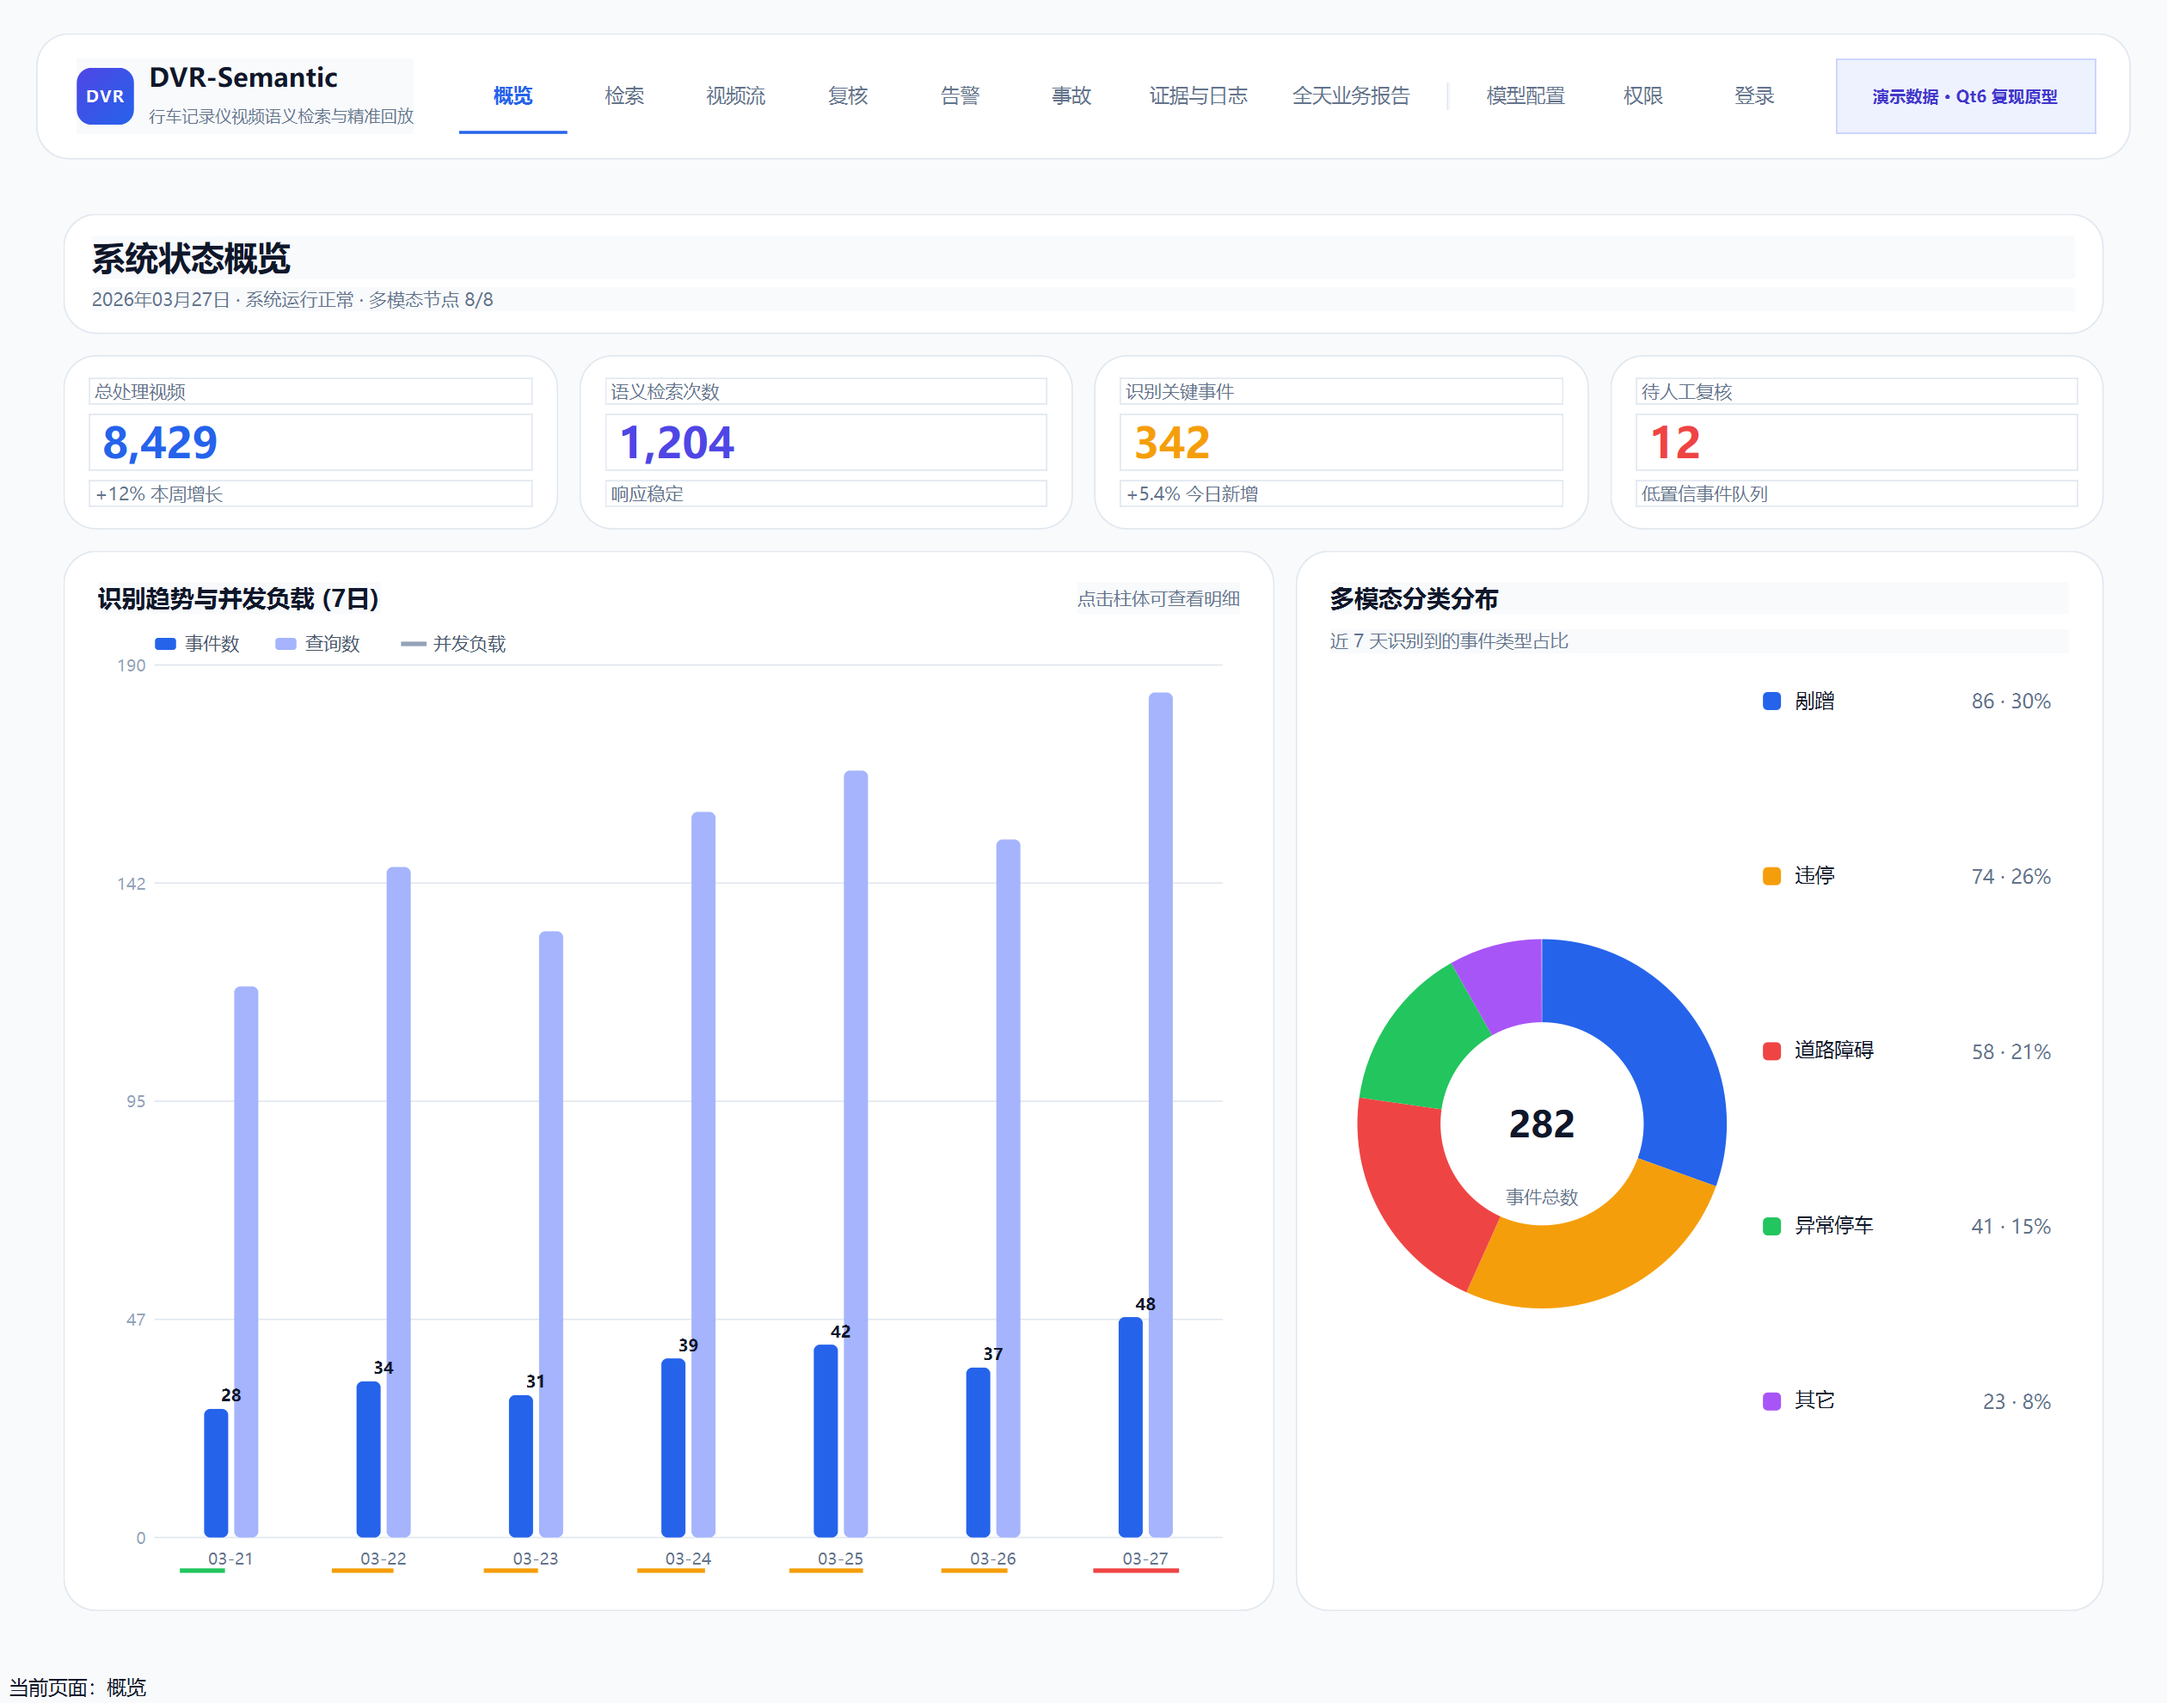
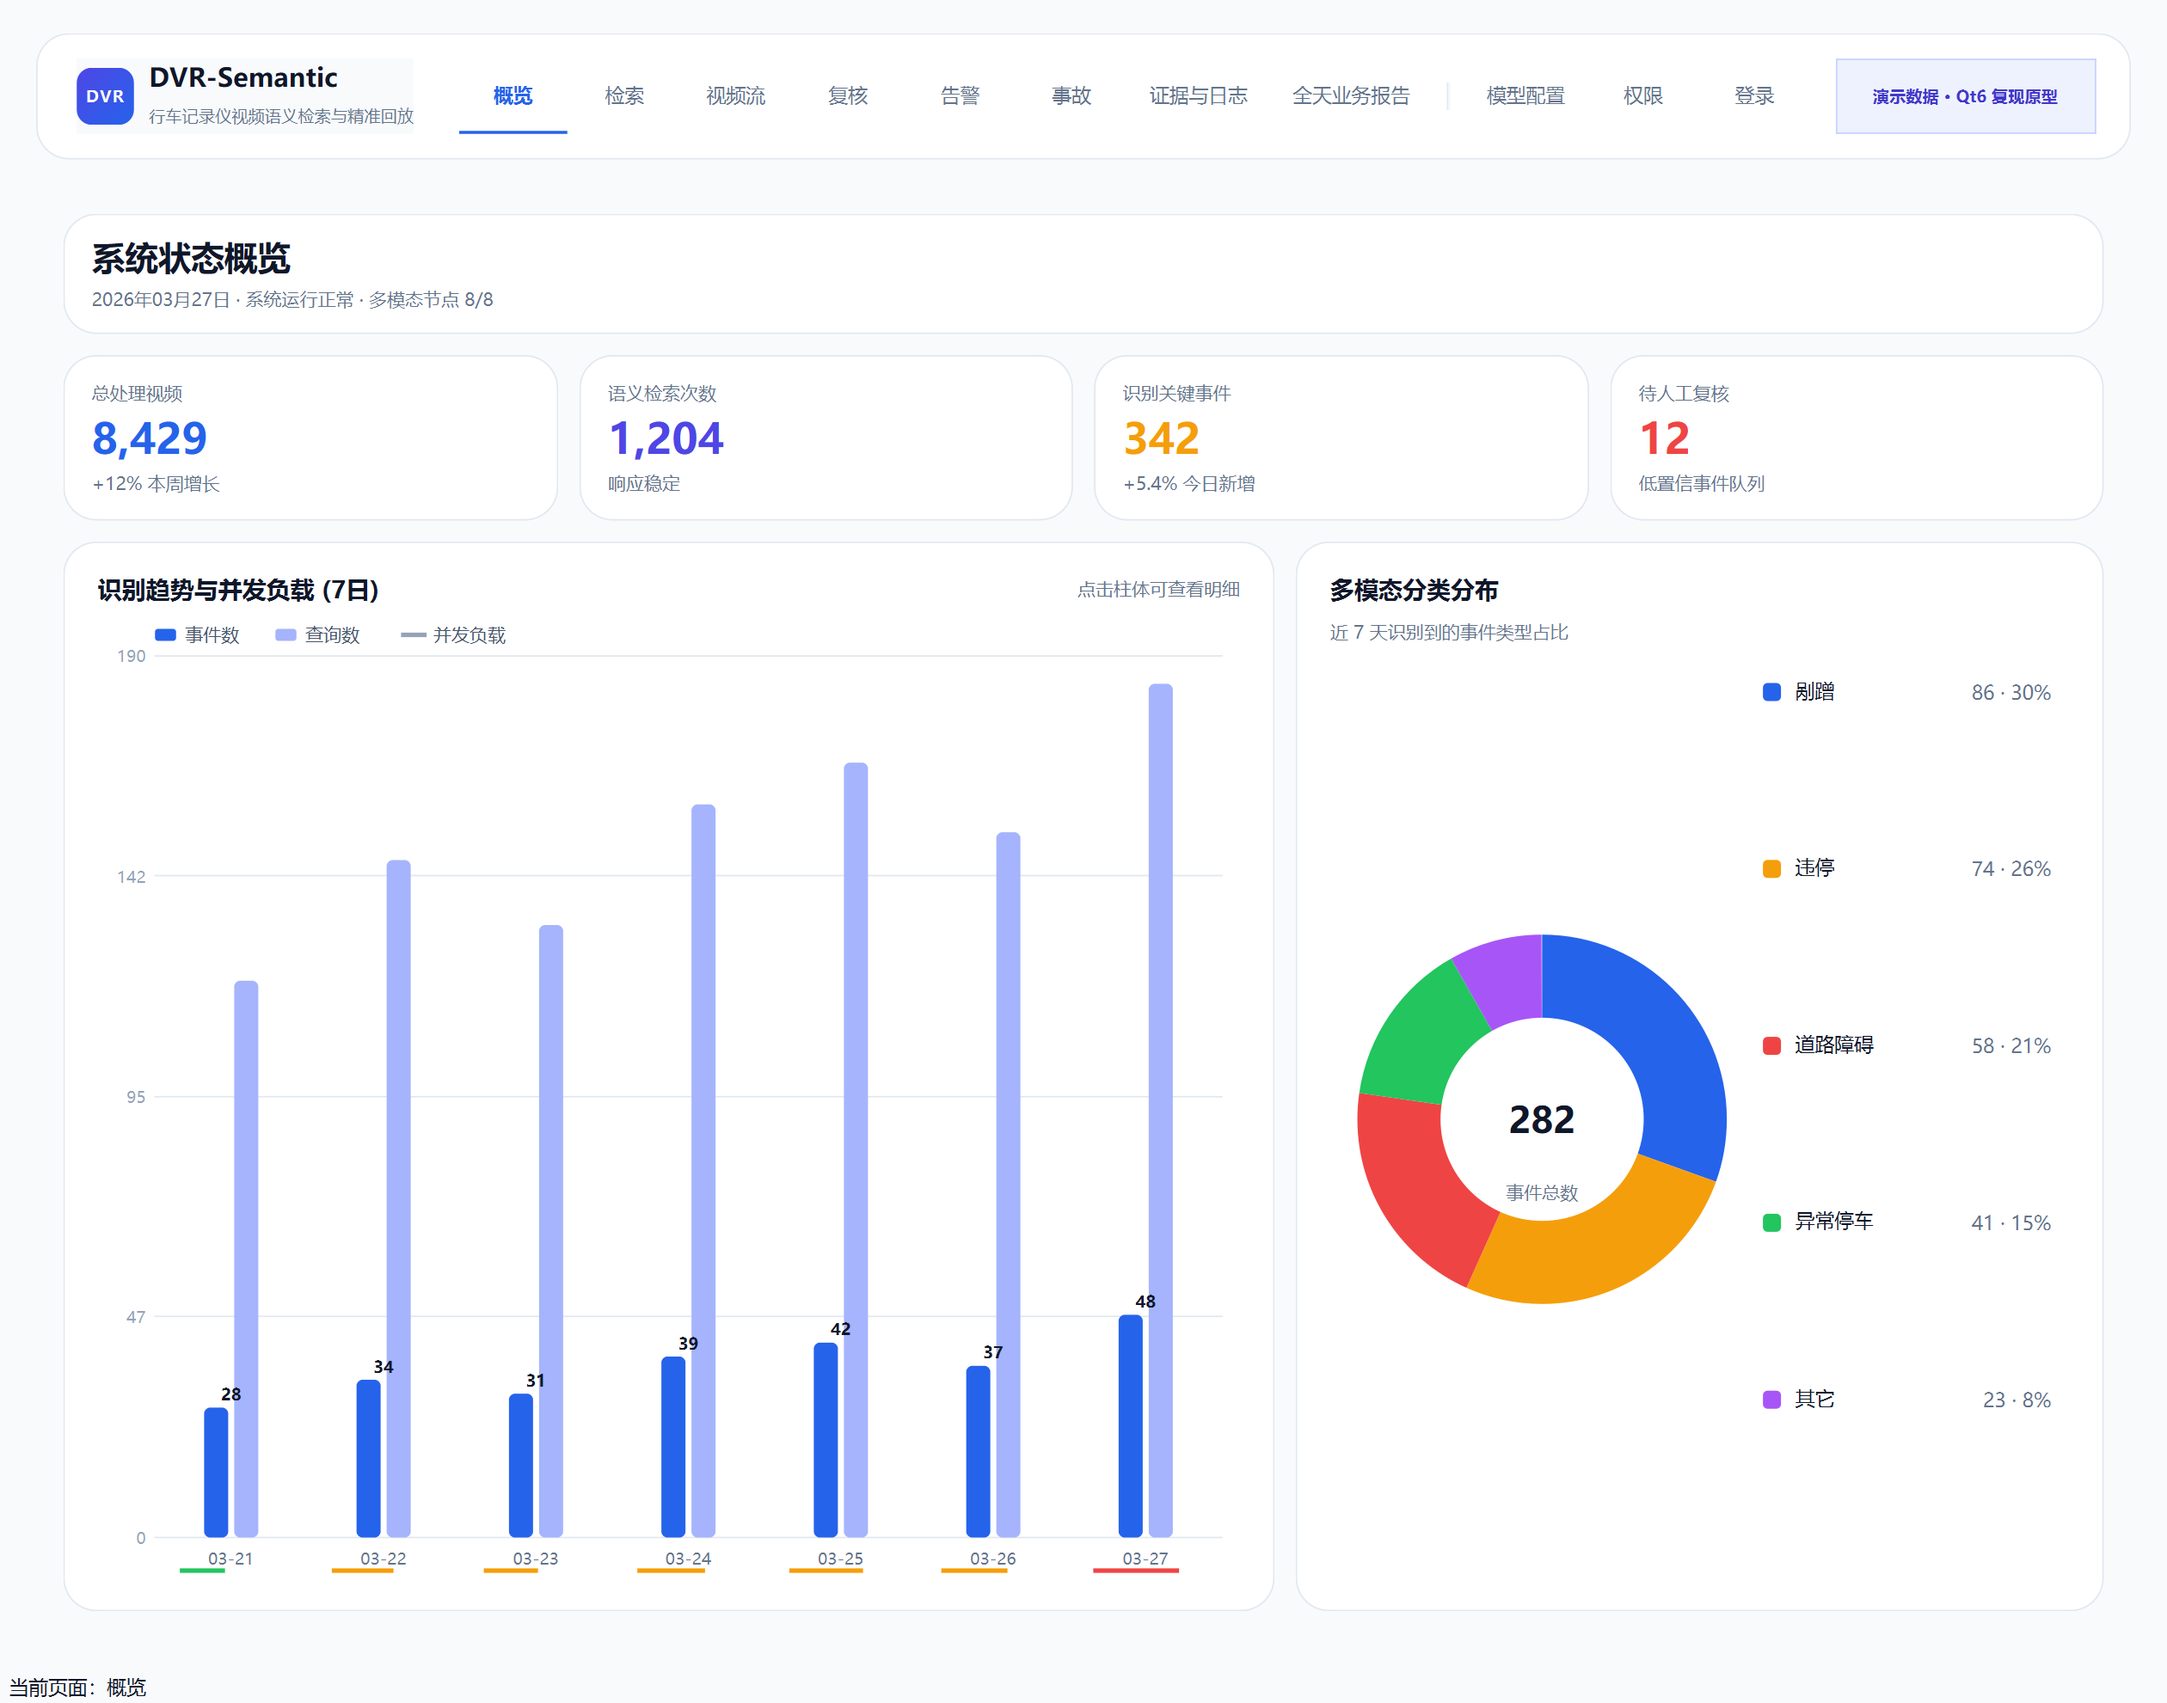
Fix label framing bug, add mock-vs-real status doc, refresh PPT captions
- pages.metric_card: scope panel border to QFrame[role='panel'] only;
  Qt's QLabel inherits from QFrame so the unscoped "QFrame { border... }"
  was painting borders around every Label inside the metric cards. Add
  defensive transparent/border:none on Labels.
- theme.qss: global QLabel default to transparent + border:none as the
  same defensive belt, so future cards don't reintroduce the regression.
- README: new "真实跑通 vs mock 一览" section — honest per-module table
  (FastAPI/SQLite/JWT/ffmpeg/VLC all real; vision model defaults to mock
  but goes real once MODEL_PROVIDER + MODEL_API_KEY are set; client
  --base-url switches mock vs real backend) plus 4-step real-stack run.
- phase2-report.html: refresh page 9 caption to describe new dark video
  card with embedded timeline + 3-metric panel; page 10 subtitle now
  mentions the QPainter-drawn bar/donut charts; page 11 honesty list
  updated to match what's actually filled (KPIs + mock tables exist for
  alerts/accidents/review, business backend wiring still pending).
- Regenerate 15 screenshots with framing-bug fix applied.

diff --git a/docs/phase2-report/phase2-report.html b/docs/phase2-report/phase2-report.html
@@ -767,11 +767,11 @@ exp-bc12a-001 | <span class="ok">success</span> | var/media/exports/.../package.
 <!-- =============== 9. DESKTOP UI — REAL SCREENSHOT =============== -->
 <section class="slide">
   <h2>桌面端 — 真实运行截图（语义检索中心）</h2>
-  <div class="subtitle">下图为 Qt6 客户端实际渲染的检索工作区。视频窗口因 offscreen 截图不能拉 VLC 帧而显示占位文字；其它 UI 元素与实际运行完全一致。</div>
+  <div class="subtitle">Qt6 客户端实际渲染的检索工作区：左侧检索结果卡片、右侧深色视频卡片融合事件时间轴、底部事件详情三色 metric 块。视频画面因 offscreen 截图不能拉 VLC 帧故显示占位文字，其它 UI 与运行一致。</div>
   <div class="panel" style="margin-top:10px;flex:1;padding:8px;overflow:hidden;display:flex;align-items:center;justify-content:center;">
     <img src="shots/qt-01-search-workspace.png" alt="Qt6 检索工作区" style="max-width:100%;max-height:560px;border:1px solid var(--border);border-radius:10px;box-shadow:0 6px 18px rgba(15,23,42,.08);" />
   </div>
-  <div class="muted" style="margin-top:6px;font-size:12px;text-align:center;">由 <code>tools/capture_screenshots.py</code> 自动抓取 · 包含搜索栏 · 推荐查询 · 3 张结果卡片 · 时间轴 · 事件详情 + 导出按钮</div>
+  <div class="muted" style="margin-top:6px;font-size:12px;text-align:center;">由 <code>tools/capture_screenshots.py</code> 自动抓取 · flat nav + 紫蓝品牌芯片 · 推荐查询胶囊 · 3 张置信度色块卡片 · 深色视频卡 + 嵌入式时间轴 · 三色 metric（置信度/相关度/复核状态）</div>
   <div class="dots"><span></span><span></span><span></span><span></span><span></span><span></span><span></span><span></span><span class="g"></span></div>
   <div class="pagenum">09</div>
 </section>
@@ -885,7 +885,7 @@ exp-bc12a-001 | <span class="ok">success</span> | var/media/exports/.../package.
 <!-- =============== 10. TEST MATRIX + SCREENSHOT WALL =============== -->
 <section class="slide">
   <h2>测试矩阵 + 桌面端页面巡览</h2>
-  <div class="subtitle">左：40 个测试全通过 / 中：pytest 终端 / 右：其它 7 个原型页在 Qt 中的实现。</div>
+  <div class="subtitle">左：40 个测试全通过 / 中：pytest 终端 / 右：8 个 Qt 页面（概览自绘柱状/饼图、复核/告警/事故/证据均填充真实风格 mock，所有列表带状态色块）。</div>
   <div class="row three" style="margin-top:10px;">
     <div class="panel">
       <h3>测试覆盖（40 PASS · 0 SKIP）</h3>
@@ -968,12 +968,12 @@ tests/test_backend_search.py ..                       <span class="ok">2 passed<
       </ul>
     </div>
     <div class="panel">
-      <h3 style="color:var(--yellow);">辅助页面未接</h3>
+      <h3 style="color:var(--yellow);">辅助页面已填，未接业务后端</h3>
       <ul>
-        <li class="y">告警管理中心：静态展示，未接 audit_logs</li>
-        <li class="y">全天业务报告 / 模型与安全配置：仍是阶段一的页面雏形</li>
+        <li class="y">告警 / 事故 / 复核：UI 已按原型出 KPI + 状态色块 + 多行表，仍是 mock 数据，后端 audit_logs / accidents 路由未联</li>
+        <li class="y">概览页：用 QPainter 自绘柱状图 + 环形饼图替换占位表格，数据仍写死</li>
+        <li class="y">证据 / 全天报告 / 模型与安全配置：UI 已成型，业务联动未做</li>
         <li class="y">权限管理 UI：后端 users.role 字段就绪，前端编辑界面未做</li>
-        <li class="y">复核中心：API 已支持 review_status 改写，但页面未把它接上</li>
       </ul>
       <h3 style="margin-top:10px;">演示前应做的截图清单</h3>
       <ul>

diff --git a/apps/desktop_client/dvr_semantic_client/widgets/pages.py b/apps/desktop_client/dvr_semantic_client/widgets/pages.py
@@ -66,12 +66,19 @@ def page_shell(title_text: str, subtitle: str) -> tuple[QWidget, QVBoxLayout]:
 
 def metric_card(label: str, value: str, note: str, accent: str = "#2563EB") -> QFrame:
     card = panel()
+    # 注意：QLabel 在 Qt 里继承自 QFrame，所以"QFrame { border... }"会顺带
+    # 把内部 Label 也画上边框。必须用 role 属性选择器锁死外框，且对内部
+    # Label 显式声明 border:none 防御样式表回环。
     card.setStyleSheet(
-        f"QFrame {{ background: #FFFFFF; border: 1px solid #E2E8F0; border-radius: 22px; }}"
-        f"QLabel#accent {{ color: {accent}; font-size: 28px; font-weight: 800; }}"
+        "QFrame[role='panel'] { background: #FFFFFF; "
+        "border: 1px solid #E2E8F0; border-radius: 22px; }"
+        f"QLabel#accent {{ color: {accent}; font-size: 28px; font-weight: 800; "
+        "background: transparent; border: none; }}"
+        "QLabel { background: transparent; border: none; }"
     )
     layout = QVBoxLayout(card)
-    layout.setContentsMargins(16, 14, 16, 14)
+    layout.setContentsMargins(18, 16, 18, 16)
+    layout.setSpacing(4)
     label_widget = muted(label)
     value_widget = QLabel(value)
     value_widget.setObjectName("accent")

diff --git a/README.md b/README.md
@@ -193,6 +193,46 @@ python -m pytest -q
 
 ---
 
+## 真实跑通 vs mock 一览
+
+> 这一节回答：「现在哪些是真的能跑、哪些用的是 mock？」
+> 不夸大、不藏丑，按模块列。
+
+| 模块 | 状态 | 说明 |
+|---|---|---|
+| FastAPI 后端 + SQLite 9 表 | ✅ 真跑 | `uvicorn` 启动后，所有 REST API 都是真路由 + 真数据库 |
+| JWT 登录 / bcrypt / 审计日志 | ✅ 真跑 | 登录返回真 token；每次操作写 `audit_logs` |
+| 视频上传 / ffmpeg 抽帧/切片/缩略图 | ✅ 真跑 | `apps/backend/dvr_semantic_backend/services/media_pipeline.py` 调真 ffmpeg |
+| 嵌入检索（向量召回 + 关键词） | ✅ 真跑 | 装了 `sentence-transformers` 走真向量；没装走 hash-ngram fallback（也是真计算，不是预写答案） |
+| 证据导出 zip 打包 | ✅ 真跑 | 真把片段 + 关键帧 + 元数据打 zip 到 `media/exports/` |
+| 多模态视觉理解（DeepSeek-VL / 通义千问 VL） | ⚠ 默认 mock，配 API key 后真跑 | `MockAdapter` 基于文件名+SHA-256 给确定性伪标签；配 `MODEL_PROVIDER=qwen` + `MODEL_API_KEY=sk-...` 后走 `OpenAICompatibleAdapter` 真请求通义千问 VL，DeepSeek 同理 |
+| VLC 视频回放 | ✅ 真跑 | 你已经装了 VLC 3.0.23；客户端用 `python-vlc` 真嵌入播放 |
+| 桌面客户端默认数据源 | mock | 不传 `--base-url` 时用 `apps/desktop_client/dvr_semantic_client/mock_client.py` 的演示数据 |
+
+### 想要"真后端 + 真视频 + 真视觉模型"全链路跑通，4 步：
+
+```powershell
+# 1. 启 backend（默认 mock 模型适配器；下一步会切真模型）
+$env:MODEL_PROVIDER = "qwen"          # 或 "deepseek"
+$env:MODEL_API_KEY  = "sk-xxxxxxxx"   # 通义千问的 dashscope key，或 deepseek key
+# $env:MODEL_NAME   = "qwen-vl-plus"  # 可选，默认 qwen-vl-plus / deepseek-vl
+python -m apps.backend.main           # 监听 8000
+
+# 2. 另开一个 PowerShell 启客户端，连真后端
+python tools/run_qt_client.py --base-url http://localhost:8000
+
+# 3. 用客户端登录（默认账户 admin / admin123），到「视频流」页面上传一段 mp4
+#    ffmpeg 抽帧 + 通义/DeepSeek 视觉理解会真打远程 API，处理完状态变 "searchable"
+
+# 4. 回「检索」页面，输入自然语言查询，看到的就是真模型识别的事件
+```
+
+### 不想花钱调真模型，只想看演示？
+
+直接 `python tools/run_qt_client.py`（不带 `--base-url`），全部走 mock，5 秒就能看到完整 UI 联动。**这也是阶段二汇报演示推荐的路径**——稳定、确定性、不依赖外网。
+
+---
+
 ## 项目结构速查
 
 ```
